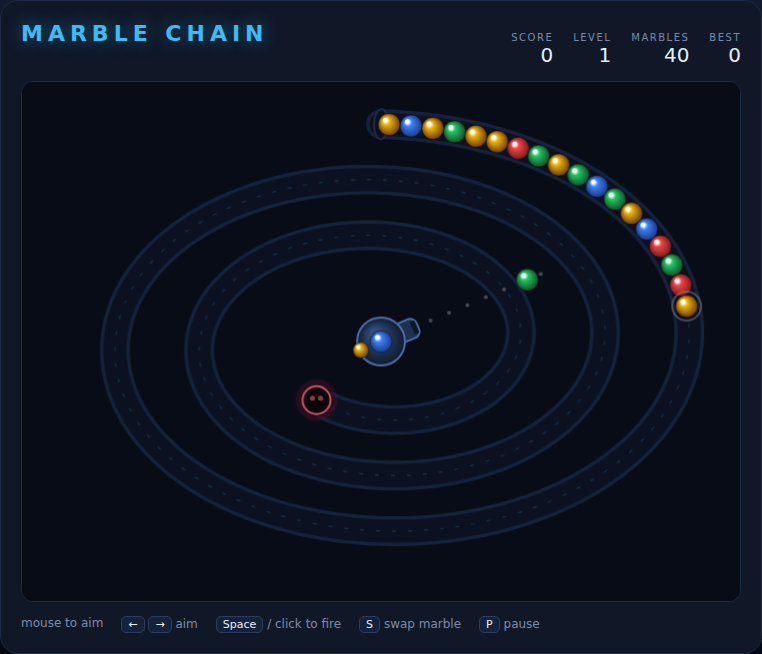
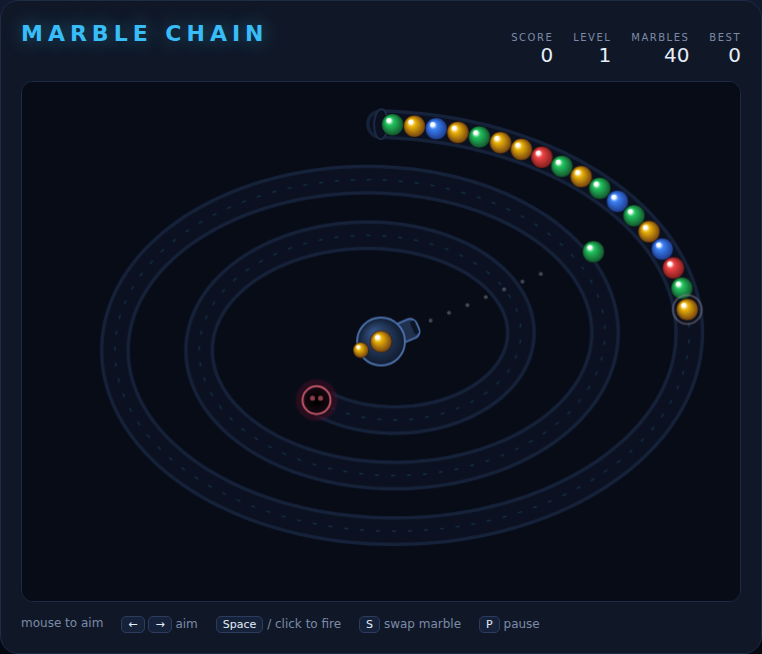
Keep Marble Chain winnable: head pull-back and turret restocking
An autopilot play-test surfaced two problems. Clearing the leading marbles
teleported every survivor forward by the length of the blast, because marble
positions are derived from their index — so a good shot at the front of the
chain pushed the rest toward the pit. Removals at index 0 now pull the head
back by the same amount (clamped at the tunnel mouth) so the survivors hold
their positions.

The turret could also end up holding two colours that had since been cleared
off the track, leaving the player swapping between them forever with no legal
shot. refreshShooterColors() now restocks any loaded marble whose colour is
gone.

With both in place the autopilot clears levels instead of losing on level 1.
Five new specs cover the two behaviours.

Claude-Session: https://claude.ai/code/session_01CihPAMPZK2zWSaUPPEFcSC

diff --git a/MarbleChain/tests/marble-chain.spec.js b/MarbleChain/tests/marble-chain.spec.js
@@ -290,6 +290,48 @@ test.describe('Marble Chain', () => {
         });
     });
 
+    test.describe('restocking the turret', () => {
+        test('a loaded marble whose colour has left the track is replaced', async ({ page }) => {
+            const s = await page.evaluate(() => {
+                startGame();
+                spawnsRemaining = 0;
+                setChain([2, 2, 2, 2], 400);
+                shooter.current = 0;
+                shooter.next = 1;
+                step(0.016);
+                return { cur: shooter.current, next: shooter.next };
+            });
+            expect(s.cur).toBe(2);
+            expect(s.next).toBe(2);
+        });
+
+        test('a loaded marble whose colour is still on the track is kept', async ({ page }) => {
+            const s = await page.evaluate(() => {
+                startGame();
+                spawnsRemaining = 0;
+                setChain([2, 3, 2, 3], 400);
+                shooter.current = 3;
+                shooter.next = 2;
+                step(0.016);
+                return { cur: shooter.current, next: shooter.next };
+            });
+            expect(s.cur).toBe(3);
+            expect(s.next).toBe(2);
+        });
+
+        test('an empty chain leaves the turret alone', async ({ page }) => {
+            const cur = await page.evaluate(() => {
+                startGame();
+                spawnsRemaining = 3;
+                chain.balls.length = 0;
+                shooter.current = 4;
+                refreshShooterColors();
+                return shooter.current;
+            });
+            expect(cur).toBe(4);
+        });
+    });
+
     // -----------------------------------------------------------------------
     // Insertion
     // -----------------------------------------------------------------------
@@ -436,6 +478,27 @@ test.describe('Marble Chain', () => {
                 return chain.balls.map((b) => b.color);
             });
             expect(colors).toEqual([1]);
+        });
+
+        test('clearing the leading marbles leaves the survivors where they were', async ({ page }) => {
+            const { before, after } = await page.evaluate(() => {
+                startGame();
+                setChain([0, 0, 0, 1, 1], 400);
+                const before = ballDist(3);       // first survivor
+                resolveMatches(0);
+                return { before, after: ballDist(0) };
+            });
+            expect(after).toBeCloseTo(before, 5);
+        });
+
+        test('the chain never reverses back behind the tunnel mouth', async ({ page }) => {
+            const head = await page.evaluate(() => {
+                startGame();
+                setChain([0, 0, 0, 1], 10);
+                resolveMatches(0);
+                return chain.head;
+            });
+            expect(head).toBe(0);
         });
 
         test('a match at the very back of the chain is removed', async ({ page }) => {

diff --git a/MarbleChain/game.js b/MarbleChain/game.js
@@ -182,6 +182,15 @@ function rollColor() {
     return randInt(paletteSize());
 }
 
+// A colour can disappear from the track while the player is still holding it —
+// that marble would be unusable, so quietly restock the turret with a live one.
+function refreshShooterColors() {
+    const live = colorsInPlay();
+    if (live.length === 0) return;
+    if (!live.includes(shooter.current)) shooter.current = rollColor();
+    if (!live.includes(shooter.next)) shooter.next = rollColor();
+}
+
 // Release queued marbles at the tail whenever the track has room for them.
 function releaseMarbles() {
     while (spawnsRemaining > 0 && ballDist(chain.balls.length) >= 0) {
@@ -211,6 +220,11 @@ function resolveMatches(index) {
 
         for (let i = start; i <= end; i++) spawnPop(ballPos(i), color);
         chain.balls.splice(start, run);
+        // Marbles behind the blast roll forward to close the gap. When the blast
+        // took the leading marbles there is nothing in front to close up to, so
+        // pull the head back instead — otherwise the survivors would teleport
+        // toward the pit as a reward for a good shot.
+        if (start === 0) chain.head = Math.max(0, chain.head - run * BALL_SPACING);
         combo += 1;
         const points = POINTS_PER_BALL * run * combo;
         score += points;
@@ -420,6 +434,7 @@ function step(dt) {
 
     updateProjectiles(dt);
     updateParticles(dt);
+    refreshShooterColors();
 
     if (shooter.recoil > 0) shooter.recoil = Math.max(0, shooter.recoil - dt * 5);
     if (shooter.aimDir !== 0) setAim(shooter.angle + shooter.aimDir * AIM_SPEED * dt);

diff --git a/MarbleChain/DESIGN.md b/MarbleChain/DESIGN.md
@@ -62,7 +62,11 @@ release.
   angle, then promotes `next` to `current` and rolls a fresh `next`.
 - New turret colours are only ever drawn from colours **still present in the chain**
   (falling back to the level's palette when the chain is empty), so the player can
-  never be handed a dead marble.
+  never be handed a dead marble. A colour can also *stop* being present while the
+  player is holding it, so `refreshShooterColors()` runs every step and quietly
+  restocks any loaded marble whose colour has left the track. Without it a player
+  can end up holding two extinct colours and swapping between them forever — the
+  autopilot used to sanity-check the balance did exactly that.
 - Each step, a projectile is tested against every visible chain marble. On contact
   (centre distance < `2 · BALL_R`) it is absorbed: the nearest chain marble is found,
   and the projectile is inserted either in front of or behind it depending on which
@@ -75,6 +79,13 @@ After an insertion at index `i`, `resolveMatches(i)` walks outward from `i` whil
 colour matches. A run of three or more is removed with `splice`, which makes the two
 marbles that flanked the run adjacent — so the function then re-checks that seam and
 loops, incrementing a combo counter each time. Scoring is
+
+Because positions are derived from the index, a `splice` moves everything behind the
+blast forward by `run · BALL_SPACING` — the gap closing, which is what Zuma does. But
+when the blast takes the *leading* marbles there is nothing in front to close up to,
+and the survivors would teleport toward the pit as a reward for a good shot. So a
+removal at index 0 pulls `chain.head` back by the same amount instead (clamped at the
+tunnel mouth so the chain never reverses out of sight).
 
 ```
 points = 10 · runLength · combo         (combo = 1 for the first blast, 2 for the
@@ -135,7 +146,9 @@ Decisions taken without asking, always choosing the simpler reading:
    chain closer to the pit; the extra length appears at the back. This is friendlier
    than the arcade original and removes a whole class of unfair deaths.
 4. **No post-match backward slide.** Clearing marbles does not shove the front of
-   the chain away from the pit — the head keeps its position.
+   the chain away from the pit — the head keeps its position. The one exception is
+   the front-of-chain case above, where the head is pulled back purely so the rest
+   of the chain stays put rather than jumping forward.
 5. **No power-ups.** No slow-down, reverse, accuracy or bomb marbles; scoring and
    combos carry the depth instead.
 6. **Levels advance immediately.** Clearing a level starts the next one on the same
